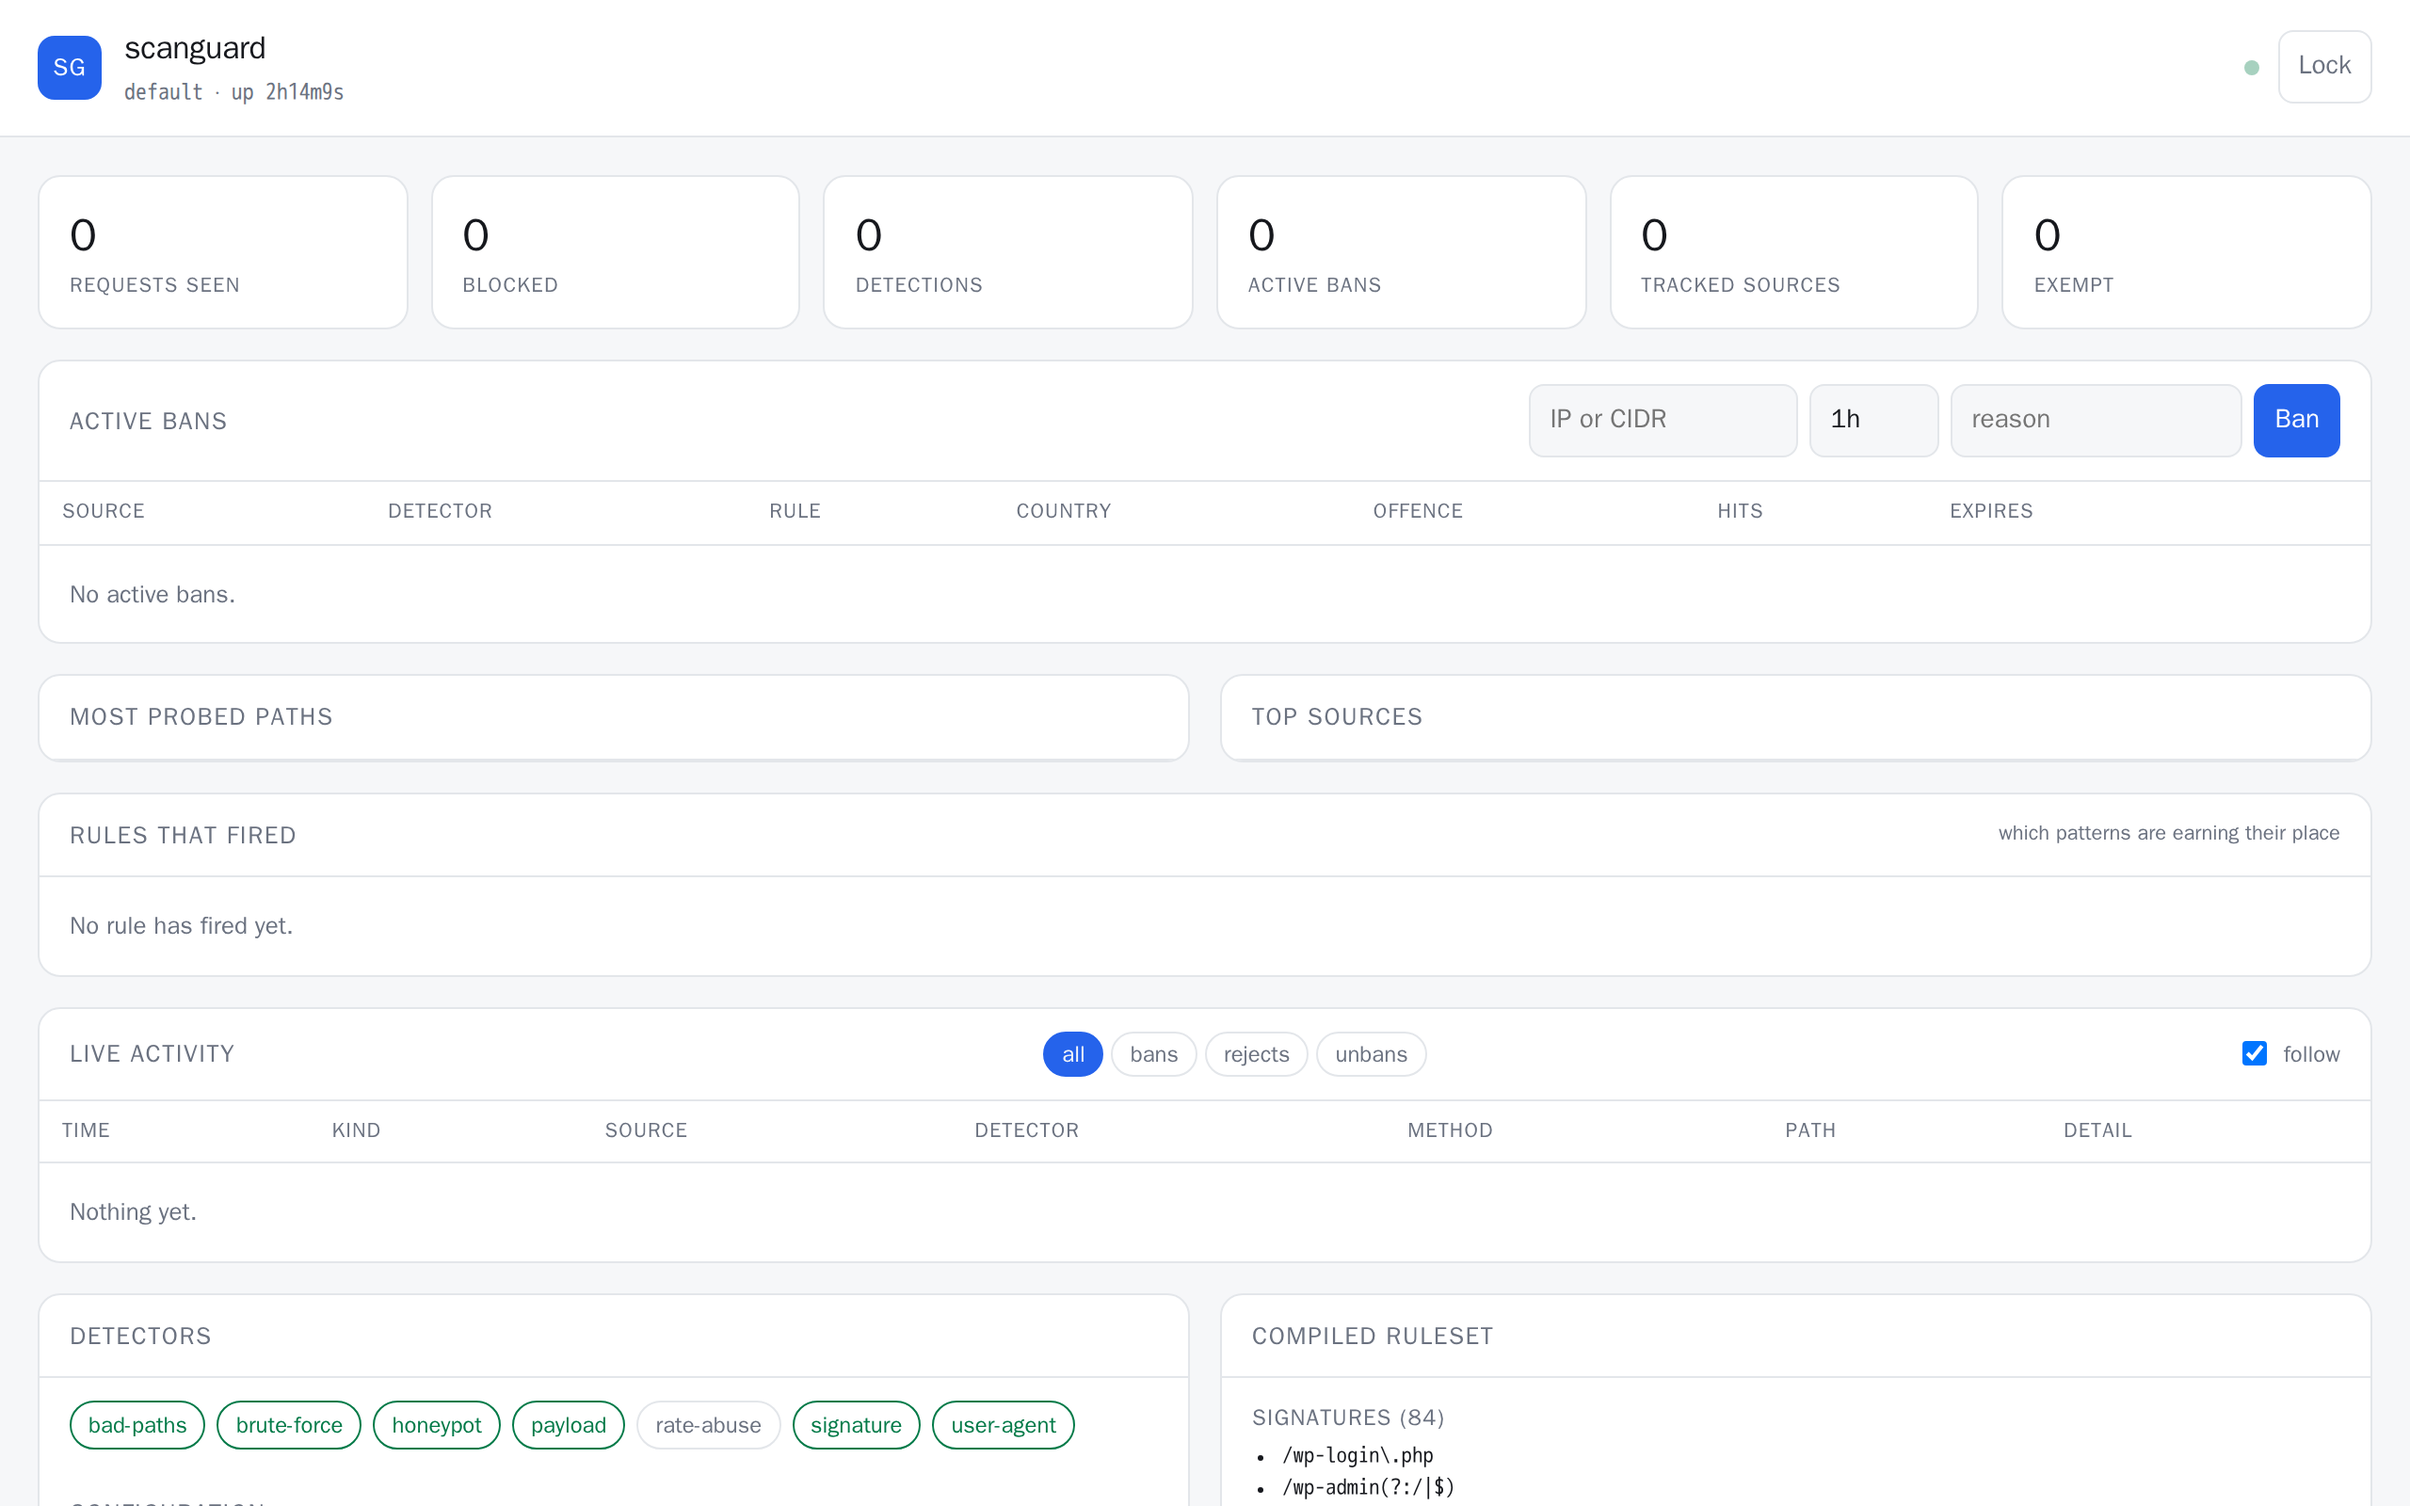
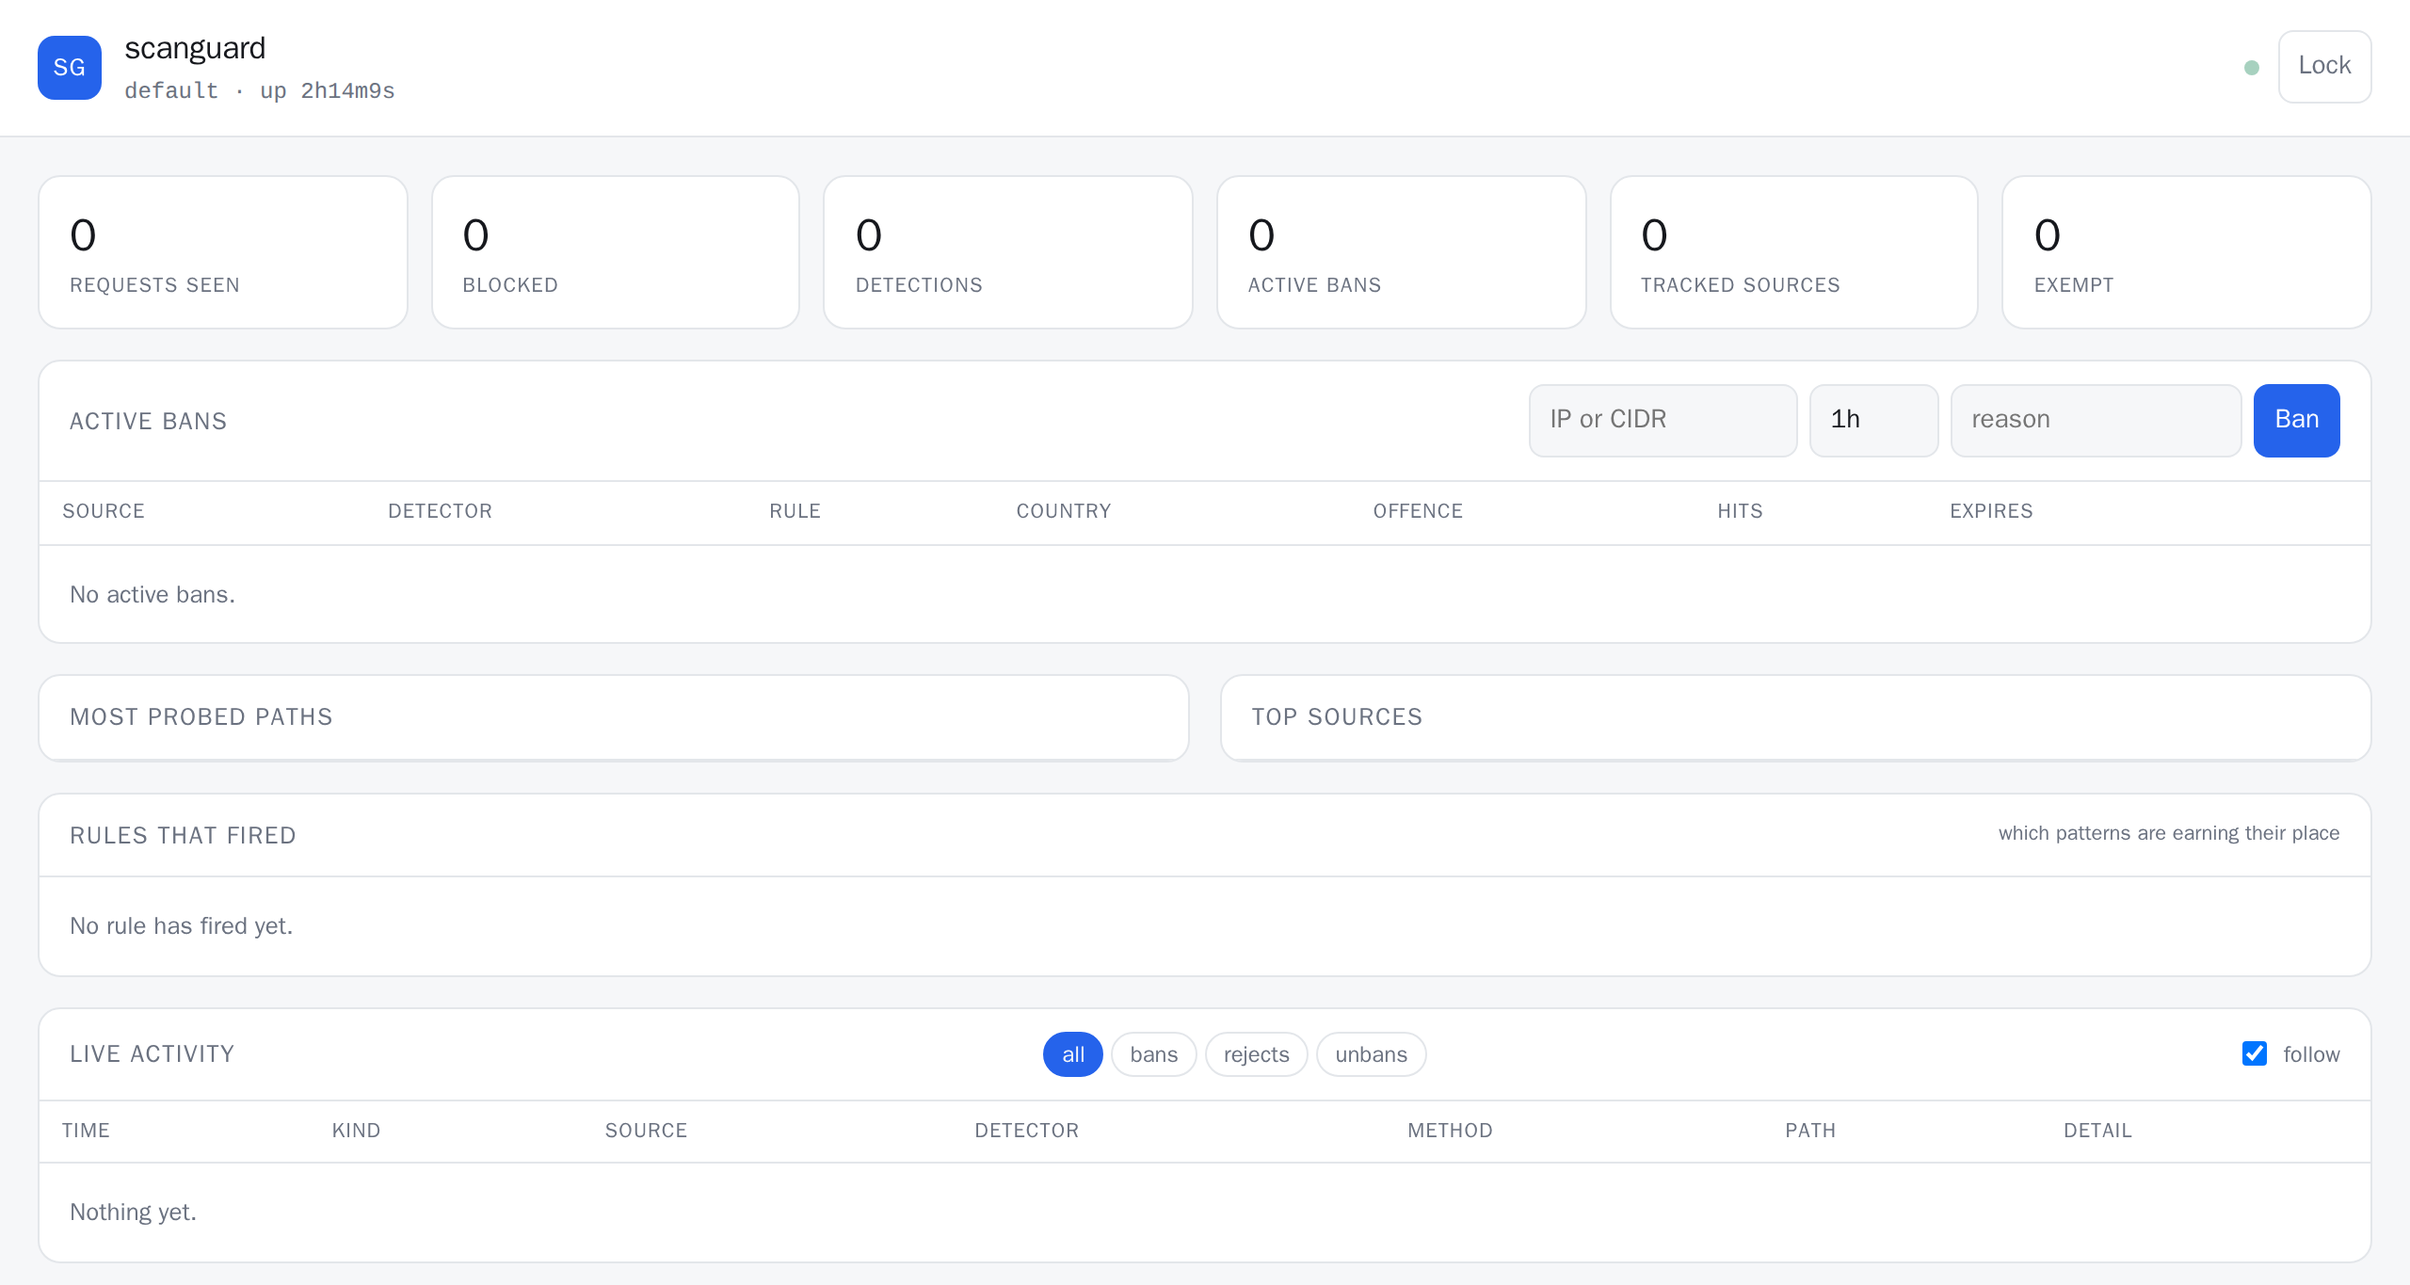
Crop the empty and phone console shots to whole panels
The empty-console shot ended mid-panel; it now runs from the header to
the live activity panel. The phone shot stops at the ban form, since the
ban table squeezes its columns at 390 px. docs-screenshots.sh creates
ARTIFACTS when it is passed in, so the stack log survives an early
failure.

diff --git a/e2e/docs/tour.spec.ts b/e2e/docs/tour.spec.ts
@@ -87,11 +87,11 @@ async function shoot(page: Page, name: string, els: Locator[] = []): Promise<voi
   if (els.length) {
     const boxes = await Promise.all(els.map((el) => el.boundingBox()))
     if (boxes.some((b) => !b)) throw new Error(`[docs] ${name}: an element is not on the page`)
-    const x = Math.min(...boxes.map((b) => b!.x)) - 12
-    const y = Math.min(...boxes.map((b) => b!.y)) - 12
+    const x = Math.max(0, Math.min(...boxes.map((b) => b!.x)) - 12)
+    const y = Math.max(0, Math.min(...boxes.map((b) => b!.y)) - 12)
     const bottom = Math.max(...boxes.map((b) => b!.y + b!.height)) + 12
     const right = Math.max(...boxes.map((b) => b!.x + b!.width)) + 12
-    clip = { x: Math.max(0, x), y: Math.max(0, y), width: right - Math.max(0, x), height: Math.min(2400, bottom - y) }
+    clip = { x, y, width: right - x, height: Math.min(2400, bottom - y) }
   }
   await page.screenshot({
     path: path.join(OUT, `${name}.png`),
@@ -108,7 +108,10 @@ test('empty console @empty', async ({ page }) => {
   await open(page)
   await expect(page.locator('#bans-empty')).toBeVisible()
   await expect(page.locator('#events-empty')).toBeVisible()
-  await shoot(page, 'console-empty')
+  await shoot(page, 'console-empty', [
+    page.locator('header.topbar'),
+    page.locator('section.panel', { has: page.locator('#events') }),
+  ])
 })
 
 test('access gate', async ({ page }) => {
@@ -145,7 +148,12 @@ test.describe('with bans', () => {
   test('overview, mobile', async ({ page }) => {
     await page.setViewportSize({ width: 390, height: 844 })
     await overview(page)
-    await shoot(page, 'console-overview.mobile')
+    // The header, the stacked tiles and the ban form; at this width the ban
+    // table squeezes its columns (it scrolls sideways), so it is left out.
+    await shoot(page, 'console-overview.mobile', [
+      page.locator('header.topbar'),
+      page.locator('#ban-form'),
+    ])
   })
 
   test('tile drill-down', async ({ page }) => {

diff --git a/docs/screenshots/README.md b/docs/screenshots/README.md
@@ -20,12 +20,13 @@ The form above the table bans an address or CIDR by hand.
 
 <img src="console-overview.png" alt="The console overview: six counter tiles and the active ban list with detector, rule and expiry" width="800">
 
-The same page in a dark colour scheme (it follows the browser's), and on a
-phone, where the tiles stack and the ban table scrolls sideways:
+The same page in a dark colour scheme (it follows the browser's), and the top
+of it on a phone, where the tiles and the ban form stack (the ban table scrolls
+sideways there and reads better on a wider screen):
 
 <img src="console-overview.dark.png" alt="The console overview in dark mode" width="800">
 
-<img src="console-overview.mobile.png" alt="The console overview at phone width" width="300">
+<img src="console-overview.mobile.png" alt="The console header, stacked counter tiles and the ban form at phone width" width="300">
 
 ## Empty console
 
